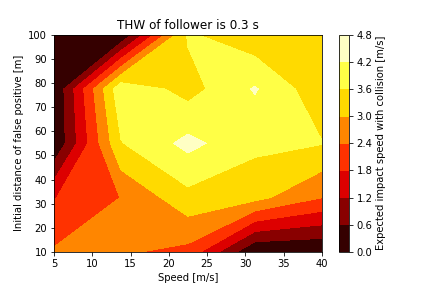
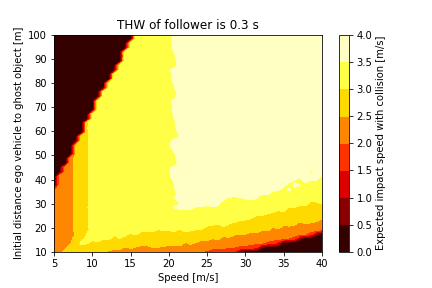
Impact speed with FP updated. Hetamaps for FN added.

diff --git a/20201207 Risk Quantification Paper/sections/04-results.tex b/20201207 Risk Quantification Paper/sections/04-results.tex
@@ -5,7 +5,7 @@
 
 
 
-\subsection{Risk of false negatives}
+\subsection{Risk of false positives}
 \label{sec:results false negatives}
 
 \todo{Make sure colors are consistent through the different images}
@@ -24,10 +24,13 @@
 
 
 
-\subsection{Risk of false positives}
+\subsection{Risk of false negatives}
 \label{sec:results false positives}
 
-\todo{Heatmap with two variables: ego vehicle speed (5 - 40), target speed (0 - 5).}
+\includegraphics[width=.9\linewidth]{figures/fn_prob_v5_30_ttc1_4.png}
+
+\includegraphics[width=.9\linewidth]{figures/fn_vimpact_v5_30_ttc1_4.png}
+
 
 
 
